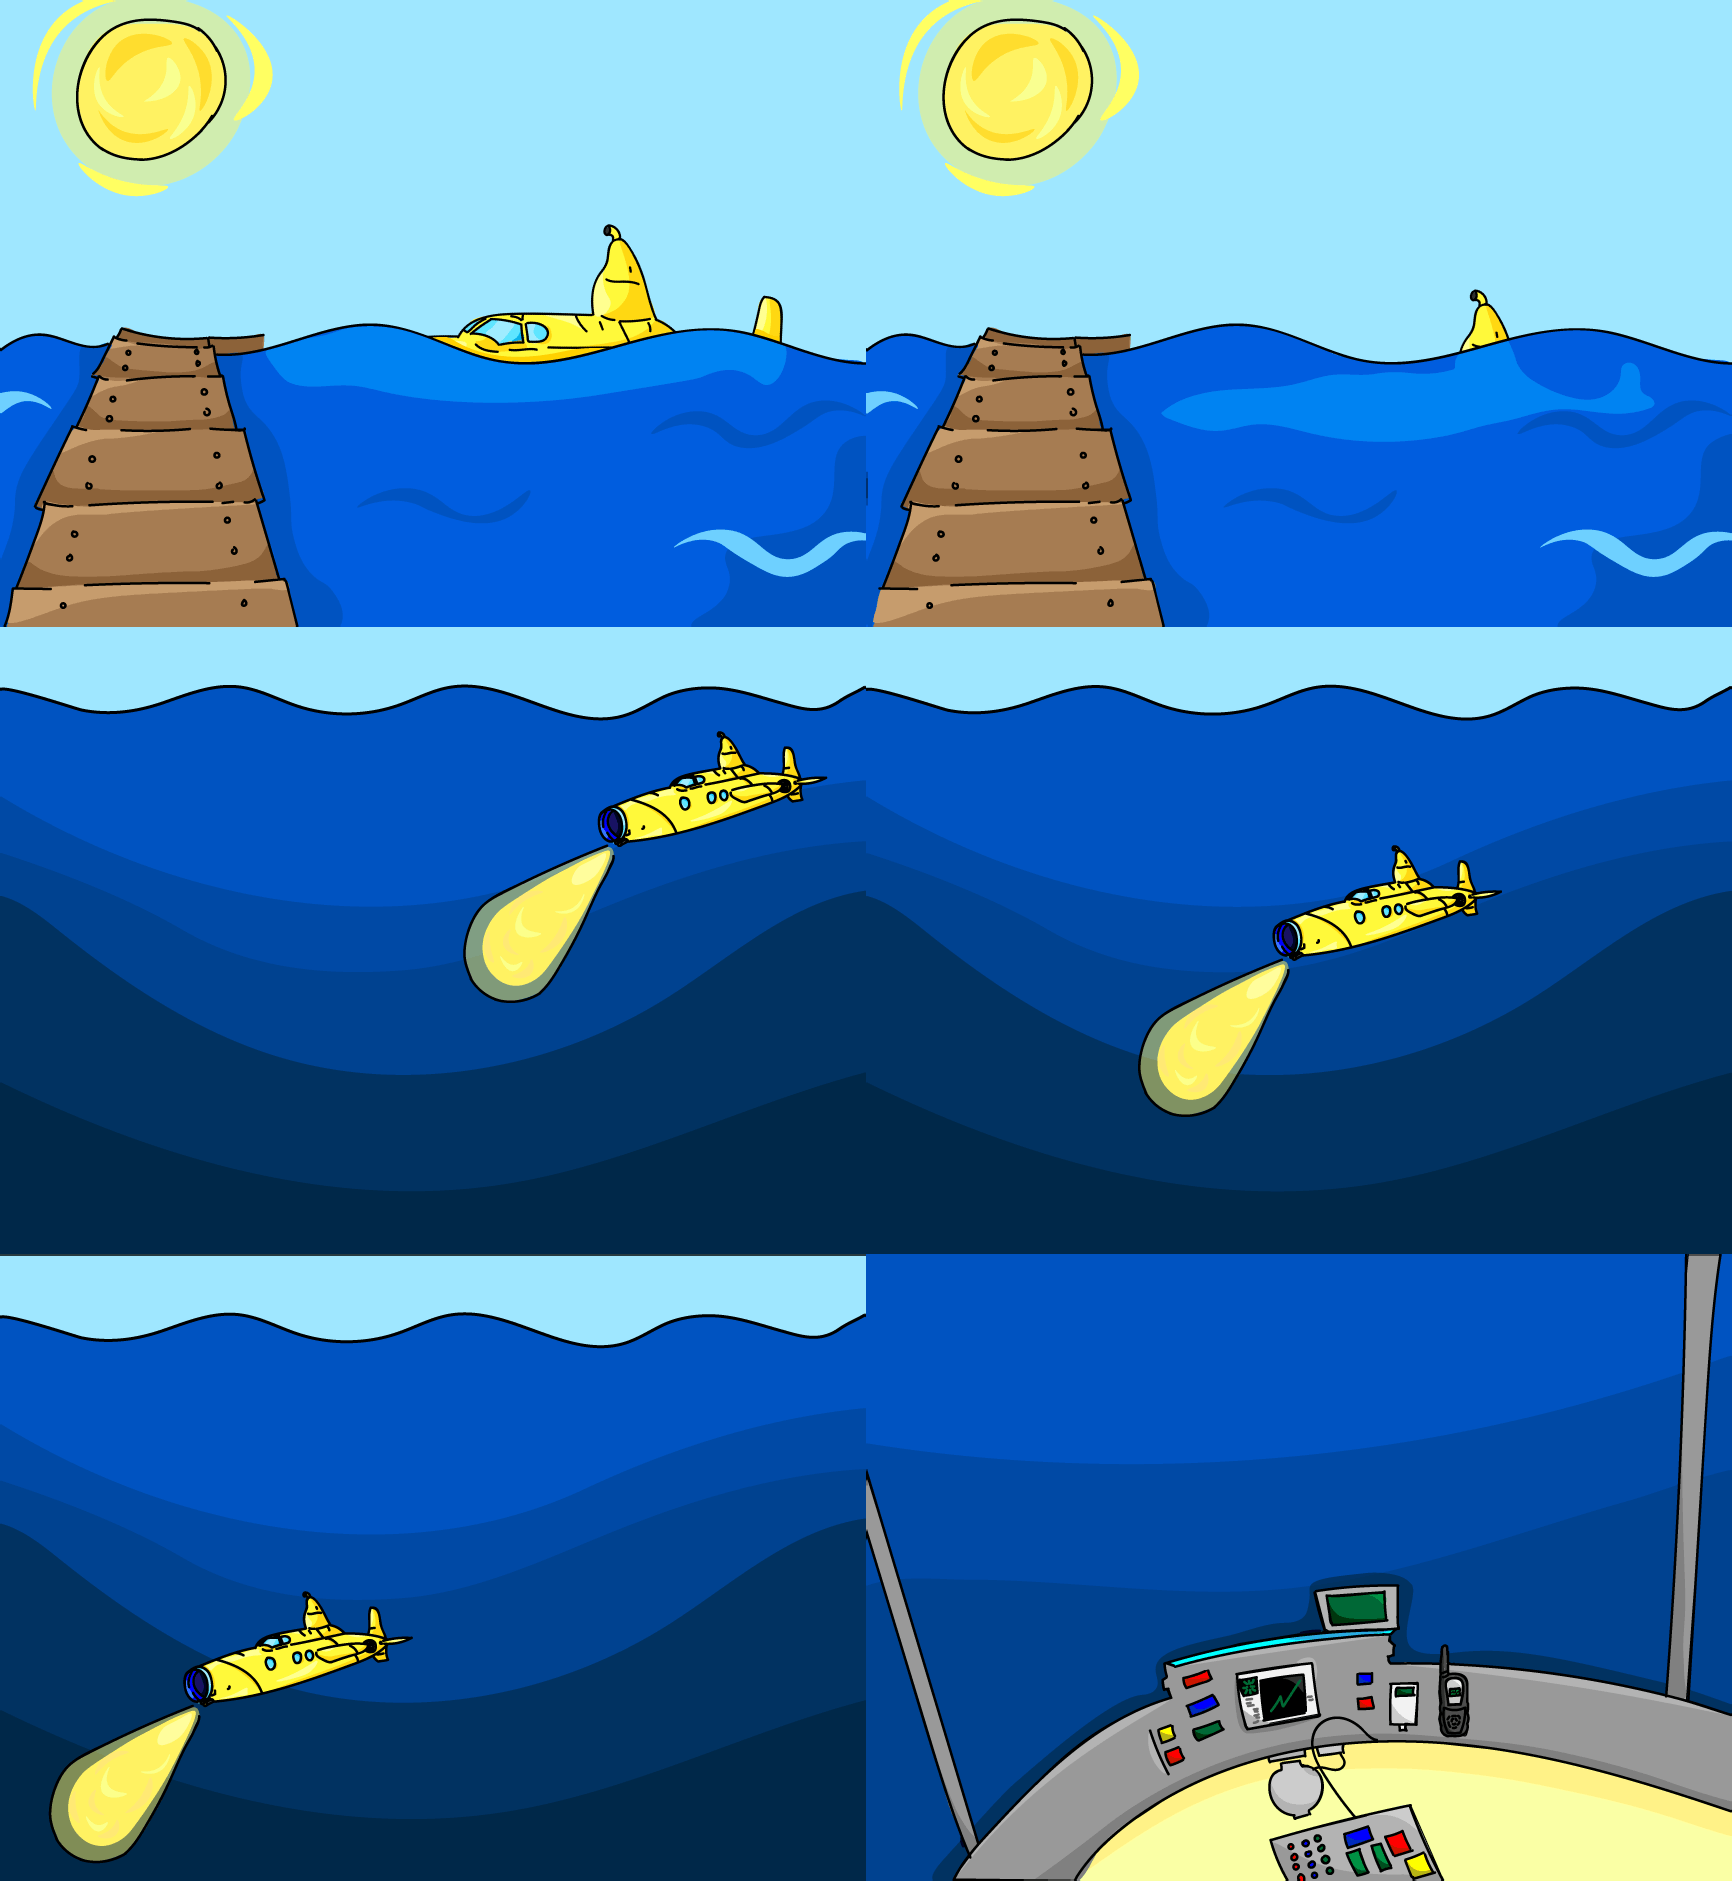
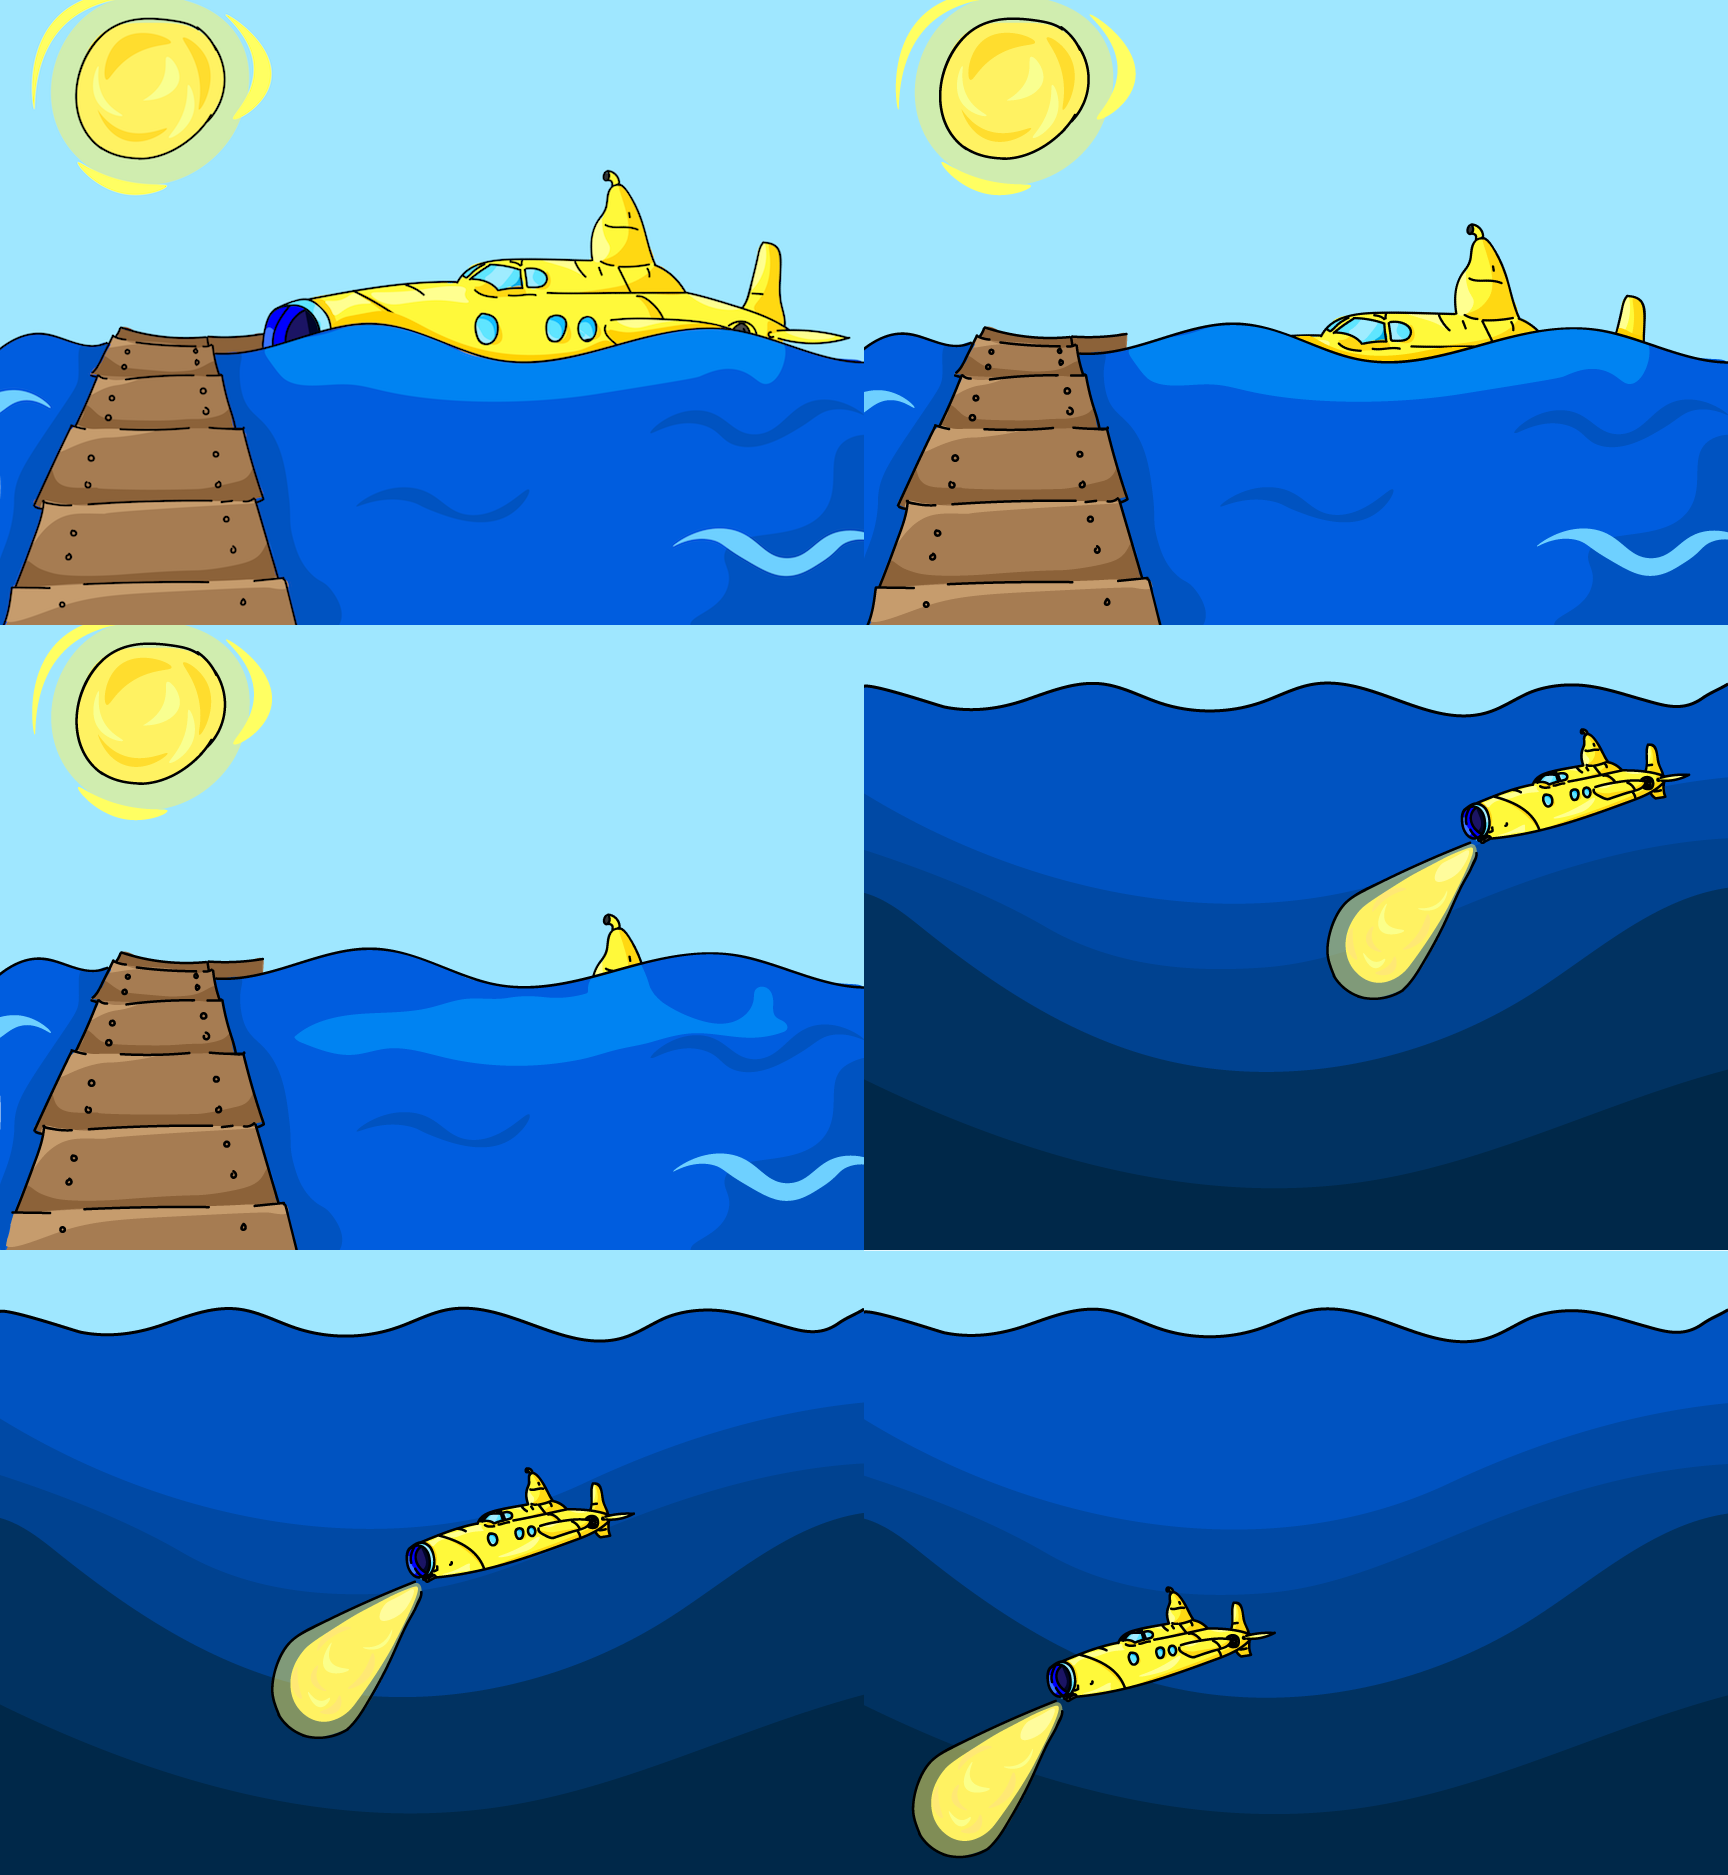
changing cutscene

diff --git a/public/js/progression/findAnglerfish.js b/public/js/progression/findAnglerfish.js
@@ -37,7 +37,7 @@ var FindAnglerfishState = (function() {
 
         //format and add the speechBubble, hiding the text with alpha = 0
         speechBubble = Text.create(-30, 250, 'speechBubble', 0.15);
-        text = game.add.text(45, 380, 'Wow it sure is dark down here!\nClick on the sub’s light beam to see\nwhat we can find.', 
+        text = game.add.text(45, 380, 'Wow it sure is dark down here!\nClick on the submarine’s light beam\nto see what we can find.', 
             {font: "22px Arial",
             fill: "#000000",
             align: "left"});
@@ -61,8 +61,8 @@ var FindAnglerfishState = (function() {
         "We see a fish with a very big jaw\nand some sort of bulb hanging off\nof the front!",//2
         "Wow! This is exciting news! You’ve\nencountered a live angler fish!",//3 radio
         "Anglerfish are deep sea creatures\nthat live in solitude. This means\nthey prefer to be alone.",//4 radio
-        "That bulb hanging from their head\nis called a lure and it can light\nup! They use it to hunt for prey.",//5 radio
-        "If it’s bigger than your hand,\nthis is a female anglerfish."//6 radio
+        "That bulb hanging from their head\nis called a lure and it can light\nup! They use it to hunt for food.",//5 radio
+        "If the fish is bigger than your hand,\nthis is a female anglerfish."//6 radio
         ];
         
         index = 0;
@@ -125,10 +125,10 @@ var FindAnglerfishState = (function() {
         walkie.alpha = 0;
         
         //make the retrieve button appear, all callback for the animation
-        retrieveButton = game.add.button(575,385,'retrieveButton',retrieveBttnCallback,this);
+        retrieveButton = game.add.button(575,385,'retrieveButtonZoom',retrieveBttnCallback,this);
         retrieveButton.alpha = 1;
         retrieveButton.scale.setTo(.03,.03);
-        text.setText("Click on the button to retrieve\nthe fish.");
+        text.setText("Click on the button to catch\nthe fish.");
     }
 
     function retrieveBttnCallback(){

diff --git a/public/js/progression/intro.js b/public/js/progression/intro.js
@@ -10,8 +10,6 @@
  * @exports introState
  */
 
-var subSpritesImg0;
-var subSpritesImg1;
 var subSprite;
 
 var introState = {
@@ -28,10 +26,6 @@ var Intro = (function() {
 
         //descending submarine images
         game.load.image('sub','images/submarine/subAboveWater.png');
-
-        //adding spritesheets for the submarine cutscene
-        subSpritesImg0 = game.load.spritesheet('subSpritesImg0','images/submarine/submarineCutscene-0.png',866,627,6);
-        subSpritesImg1 = game.load.spritesheet('subSpritesImg1','images/submarine/submarineCutscene-1.png',866,627,5);
     }
 
     var create = function(){
@@ -43,12 +37,12 @@ var Intro = (function() {
         
         //intro dialogue broken into individual sentences and index number
         var content = ["Hi and welcome!", //0
-        "I’m Pam, a bioengineer.\nThat means I am an engineer who\nuses genes to solve problems.", //1
+        "I’m Pam, a bioengineer.\nThat means I am an engineer who\nuses genes of living things to solve\nproblems.", //1
         "Today you’re going to be\npart of a deep sea dive with me!", //2
         "We are going to study\nmysterious deep sea creatures in\nour submarine.", //3
-        "The sub is a research lab\nand it can take us to the\ndeepest part of the ocean.", //4
+        "The submarine is a research lab\nand it can take us to the\ndeepest part of the ocean.", //4
         "We’re going to explore things\nmost people have never\nseen.", //5
-        "If we have questions we\ncan ask our friends above the\nwater with a radio.",//6
+        "If we have questions we\ncan ask our friends above the\nwater with a walkie-talkie.",//6
         "Let’s go!" //7
         ];
 

diff --git a/public/js/progression/boot.js b/public/js/progression/boot.js
@@ -79,11 +79,16 @@ var BootState = (function() {
 
         //retrieve button for angie
         game.load.image('retrieveButton','images/background/retrieveButton.png');
+        game.load.image('retrieveButtonZoom','images/background/retrieveButton_zoom.png');
 
         //firstConsequence images
         game.load.image('subFish', 'images/consequence/subFish.png');
         game.load.spritesheet('fishSpritesImg','images/consequence/fishDecrease.png',864,625,5);
         game.load.spritesheet('angieHunger','images/anglerfish/angieHunger.png',300,240,4);
+
+        //adding spritesheets for the submarine cutscene
+        game.load.spritesheet('subSpritesImg0','images/submarine/submarineCutscene-0.png',864,625,6);
+        game.load.spritesheet('subSpritesImg1','images/submarine/submarineCutscene-1.png',864,625,6);
 
         //toxins images
         game.load.image('pollution', 'images/toxins/pollution.png');

diff --git a/public/js/progression/noChoice.js b/public/js/progression/noChoice.js
@@ -120,6 +120,8 @@ var noChoice = (function() {
         }
     }
 
+    var pollution;
+
     //callback for starting finding the pollution game
     function findPollution(){
         text.alpha = 0
@@ -129,7 +131,7 @@ var noChoice = (function() {
         startBttn.inputEnabled = false;
 
         //start the actual event timer
-        game.time.events.add(Phaser.Timer.SECOND * 3, endGame, this);
+        game.time.events.add(Phaser.Timer.SECOND * 30, endGame, this);
 
         //start the display timer to update every second
         timer = game.time.create(false);
